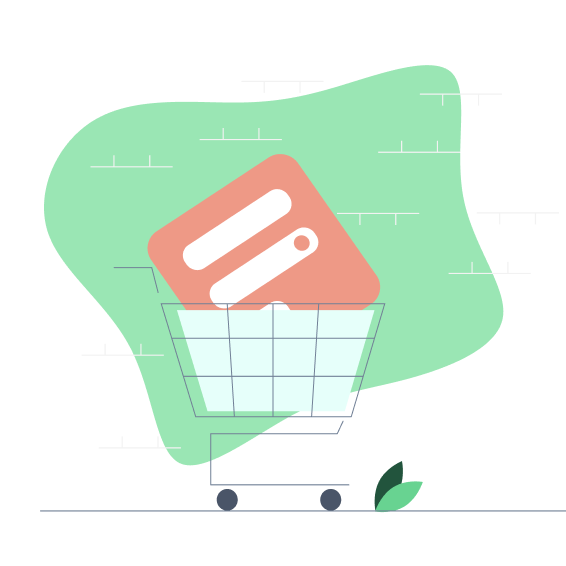
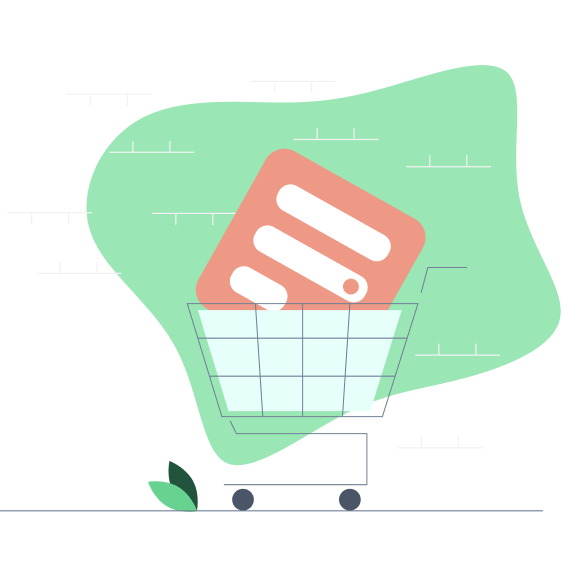
reverse image and add in spacing

diff --git a/client/src/components/layout/landing-backup.js b/client/src/components/layout/landing-backup.js
@@ -107,7 +107,7 @@ class Landing extends Component {
                 </div>
 
                 {/* Hero Image */}
-                <div className="mt-4 max-w-xs mx-auto sm:max-w-md md:max-w-sm lg:max-w-md xl:max-w-xl">
+                <div className="mt-4 max-w-xs mx-auto sm:max-w-md md:max-w-sm lg:ml-8 lg:max-w-md xl:max-w-xl">
                     <img className="mx-auto" src="images/new-landing-page/heroImage.png"></img>
                 </div>
             </div>
